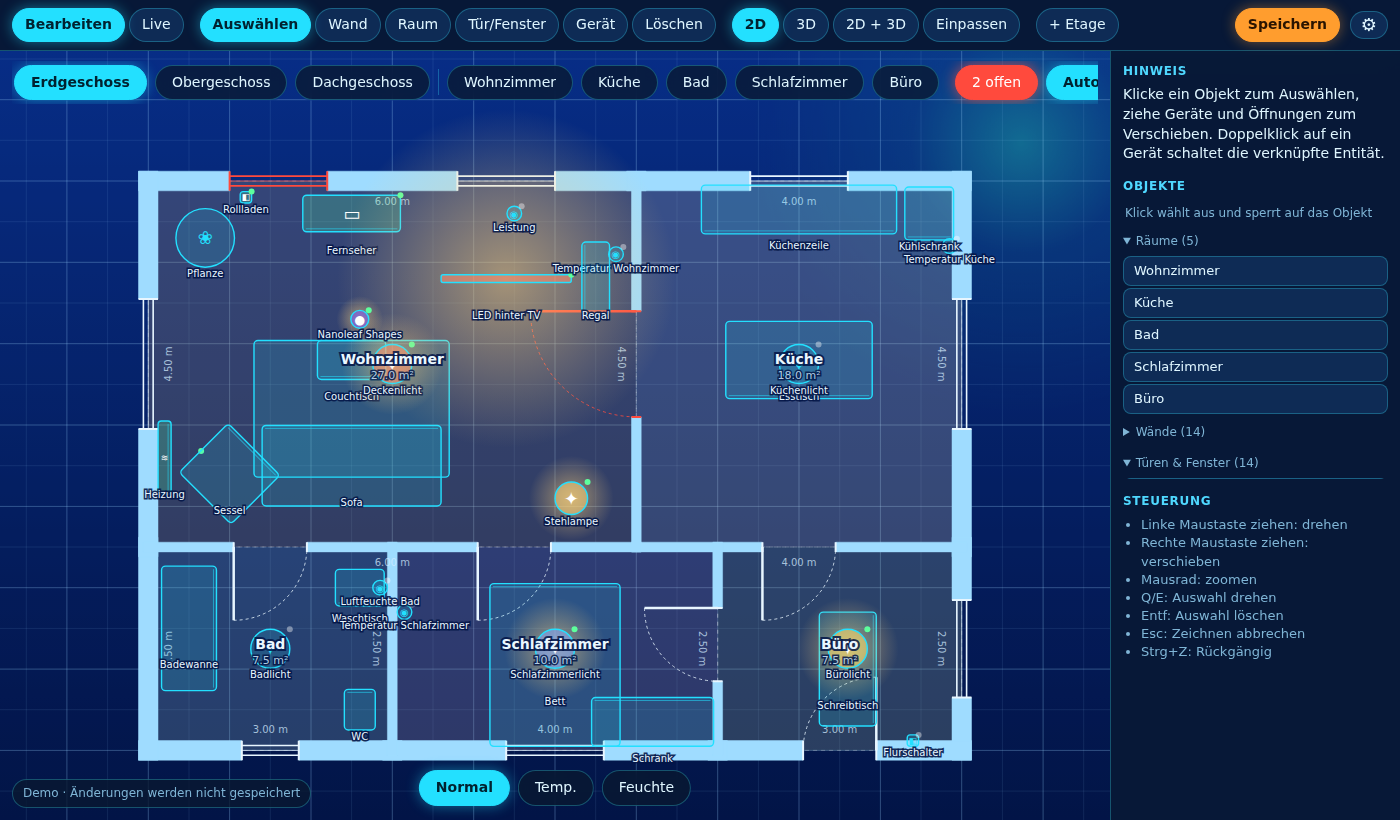
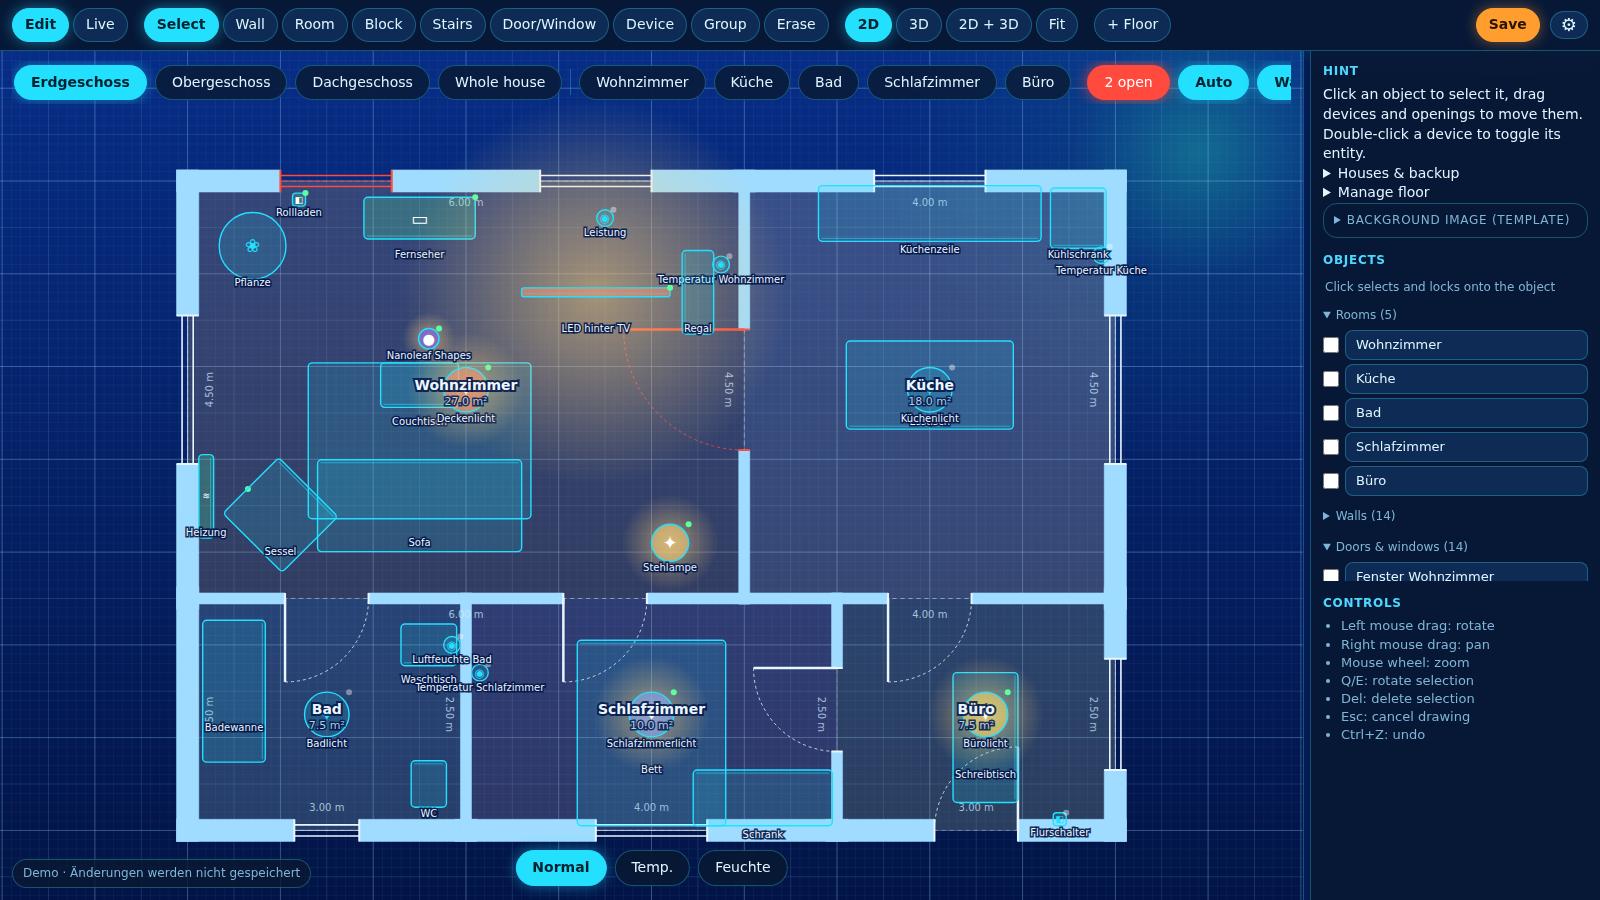
1.8.1: new README with feature overview and screenshots, architecture notes, house selector fix
Claude-Session: https://claude.ai/code/session_01Co8i9MW1FxCgsyBxKaj1v4

diff --git a/demo/demo-data.js b/demo/demo-data.js
@@ -134,7 +134,7 @@ const entities = {
 };
 
 let settings = {
-  language: 'de', theme: 'holo', units: 'metric', grid: 0.25, wallHeight: 2.6, wallThickness: 0.2,
+  language: 'en', theme: 'holo', units: 'metric', grid: 0.25, wallHeight: 2.6, wallThickness: 0.2,
   shadows: true, autosaveSeconds: 1.5, lowWalls: false, showLabels: true, cutaway: true,
 };
 

diff --git a/floorplan3d/rootfs/app/static/style.css b/floorplan3d/rootfs/app/static/style.css
@@ -267,3 +267,4 @@ body.kiosk #houseGroup { display: none; }
 #panelResizer:hover, #panelResizer.drag { background: var(--accent); opacity: .5; }
 body.live #panelResizer { display: none; }
 @media (max-width: 700px) { #panelResizer { display: none; } }
+#houseGroup[hidden] { display: none; }

diff --git a/README.md b/README.md
@@ -1,8 +1,8 @@
 <div align="center">
 
-# 3D Floorplan for Home Assistant
+# 🏠 3D Floorplan for Home Assistant
 
-**Draw your home, see it in 3D and control it right where things are.**
+### Draw your home, see it in 3D and control it right where things are.
 
 [![CI](https://github.com/BuRnEd4AiM/HA-Floorplanner/actions/workflows/ci.yml/badge.svg)](https://github.com/BuRnEd4AiM/HA-Floorplanner/actions/workflows/ci.yml)
 [![Release](https://img.shields.io/github/v/release/BuRnEd4AiM/HA-Floorplanner?display_name=tag&sort=semver)](https://github.com/BuRnEd4AiM/HA-Floorplanner/releases)
@@ -10,47 +10,127 @@
 ![Home Assistant add-on](https://img.shields.io/badge/Home%20Assistant-add--on-41BDF5?logo=homeassistant&logoColor=white)
 ![Ingress](https://img.shields.io/badge/Ingress-yes-success)
 ![No build step](https://img.shields.io/badge/frontend-no%20build%20step-lightgrey)
+![Made with love](https://img.shields.io/badge/made%20with-%E2%9D%A4-e0245e)
 
 [![Add repository to my Home Assistant](https://my.home-assistant.io/badges/supervisor_add_addon_repository.svg)](https://my.home-assistant.io/redirect/supervisor_add_addon_repository/?repository_url=https%3A%2F%2Fgithub.com%2FBuRnEd4AiM%2FHA-Floorplanner)
 
-![3D and 2D split view](docs/img/split.png)
+<img src="docs/img/3d.png" alt="3D hologram view of an apartment with live lights, sensors and open windows" width="900">
+
+*Your own floor plan as a glowing 3D hologram, live with your real lights, sensors, windows and scenes.*
+
+**[Features](#-features) · [Installation](#-installation) · [Quick start](#-quick-start) · [Tablets](#-wall-tablets--kiosk) · [Documentation](#-documentation) · [Roadmap](ROADMAP.md)**
 
 </div>
 
-> **Status: early development (0.x).** It works and is used daily, but layouts are stored in a versioned JSON format that may be migrated between releases. See the [roadmap](ROADMAP.md) and the [milestones](https://github.com/BuRnEd4AiM/HA-Floorplanner/milestones).
+---
 
-## Highlights
+## ✨ Why this add-on?
+
+Most floor plan cards make you place icons on a picture. **3D Floorplan** lets you *build* your home: walls, rooms, doors, windows, stairs and furniture, then see it as a real 3D model in which every device is bound to a Home Assistant entity. Tap a lamp where it stands, switch a whole room, start a scene, see which window is open, all in one place, on your phone, your desktop or a wall tablet.
+
+It is made with a lot of love for my own smart home, and it is used every day. I hope it makes yours a little nicer, too. 💙
+
+## 🎯 Features
+
+### 🏗 Build your home
 
 | | |
 | --- | --- |
-| **Draw it yourself** | Walls, rooms and several floors on a snapping grid, in a 2D blueprint editor that is linked live with the 3D view (split view). Load a scan of your floor plan as a template and trace it. Placeholder blocks for floors you do not draw, stairs and stairwells with floor openings, basements, roofs, garden objects and a whole-house view |
-| **Real 3D** | Orbit, pan, zoom; doors and windows cut real openings; low-wall mode; translucent neon hologram design |
-| **Home Assistant native** | Every device is bound to an entity; lights glow in their real colour, sensors show values, HA areas group your entities |
-| **Whole room at once** | Switch all lights of a room, set colour for all of them and start the room's scenes in one place |
-| **Effects and colour** | Colour, brightness and warm/cold white per light; effect lists of Nanoleaf, WLED, Hue and others |
-| **Heat and humidity views** | Temperature and humidity colour the rooms |
-| **Permissions** | Only administrators edit; everyone else gets a read-only live view, enforced in the backend |
-| **Tablets** | One Home Assistant user per wall tablet: starts in its room, sees only the views you allow |
-| **Your own models** | 29 built-in objects (lights, furniture, light ball, LED strip …) plus your own `.glb` files |
-| **Offline and private** | three.js is bundled, no CDN, no cloud, opens through Ingress in the sidebar |
+| **Walls, rooms and floors** | Draw on a snapping grid in a 2D blueprint editor that is linked live with the 3D view (split view). Several floors, basement and roof, placeholder blocks for floors you do not draw |
+| **Trace your plan** | Load a scan or photo of your floor plan as a template, calibrate its scale and trace over it |
+| **Stairs** | Straight, L-shaped, U-shaped and spiral stairs with real floor openings |
+| **Doors and windows** | 12 presets: front door, glass door, double door, sliding door, single / double / triple window, balcony door, fixed glazing ... they cut real openings into the wall and open when the contact sensor reports *open* |
+| **Garden and surroundings** | Trees, bushes, lawn, terrace, pool, paths, fences and cars around the house, in natural colours |
+| **Whole-house view** | See all floors, basement and roof stacked as one building |
+| **Several houses** | One floor plan per house (yours, your parents', a holiday home ...), a house selector and `?house=` links for kiosks |
 
-## Screenshots
+<table>
+<tr>
+<td width="50%"><img src="docs/img/split.png" alt="2D and 3D split view"><br><sub><b>2D + 3D split view</b>: draw in the blueprint, see it in 3D instantly</sub></td>
+<td width="50%"><img src="docs/img/house.png" alt="Whole-house view"><br><sub><b>Whole-house view</b>: all floors stacked</sub></td>
+</tr>
+</table>
 
-| 3D view | 2D blueprint editor |
-| --- | --- |
-| ![3D](docs/img/3d.png) | ![2D](docs/img/2d.png) |
+### 🪑 Furnish it
 
-## Installation
+- **Furniture library with previews**, search and categories (Living, Kitchen, Bath, Bedroom, Office, Lighting, Tech, Outdoor, Decor). The search understands everyday names ("Fernseher", "Couch" ...)
+- **75+ built-in pieces**: sofas, beds, kitchens, bathroom, lamps, TVs (also wall-mounted), radiators, cameras, robot vacuum and more
+- **Your own 3D models**: upload any `.glb` file
+- **Pictures on walls**: upload a PNG / JPG / WebP and hang it, it clicks flat onto the nearest wall
+- **Exact sizes**: enter width, height and depth in metres, or drag the handles in the 2D plan. Tilt, roll and mirror pieces freely
+- **Groups**: combine pieces (e.g. a Nanoleaf logo) so they move, turn and mirror as one shape
+- **Wall stop**: furniture cannot be pushed through walls, it slides along them instead (can be switched off)
+- **Lock**: a checkbox before every item keeps it from being moved by accident
+
+<table>
+<tr>
+<td width="50%"><img src="docs/img/library.png" alt="Furniture library with previews"><br><sub><b>Furniture library</b> with previews, search and categories</sub></td>
+<td width="50%"><img src="docs/img/2d.png" alt="2D blueprint editor"><br><sub><b>2D blueprint editor</b> with snapping, dimensions and live state colours</sub></td>
+</tr>
+</table>
+
+### 💡 Control it
+
+- **Every device is a Home Assistant entity**: tap a lamp to switch it, dim it, pick a colour or warm / cool white
+- **Whole room at once**: all lights on / off, brightness and colour for the entire room, plus the room's scenes, in one panel
+- **Scenes where the light is**: the popup of a light lists every scene that contains it (e.g. *Gaming*)
+- **Effects**: effect lists of Nanoleaf, WLED, Hue and others; **Nanoleaf panel shapes** (triangle, hexagon, square, bar) for building your layout
+- **Realistic light**: lights glow in their real colour, with type-dependent light pools (a strip does not light the room like a ceiling lamp), dimmable
+- **Open windows and doors**: windows tilt open in 3D, **each pane of a double or triple window can have its own sensor**, an *n open* pill shows the overall state
+- **Heat and humidity views**: rooms are coloured by temperature or humidity
+- **Home Assistant areas**: entities are grouped by your areas and assigned automatically
+
+<table>
+<tr>
+<td width="50%"><img src="docs/img/room.png" alt="Room panel with whole-room control and scenes"><br><sub><b>Whole-room control</b>: lights, colour, brightness and scenes</sub></td>
+<td width="50%"><img src="docs/img/light.png" alt="Light popup with colour, brightness and scenes"><br><sub><b>Light popup</b>: tap a lamp right where it stands</sub></td>
+</tr>
+</table>
+
+### 🔒 Safe, private and dependable
+
+- **Permissions**: only chosen users edit, everyone else gets a read-only live view, enforced in the backend
+- **Offline and private**: three.js is bundled, no CDN, no cloud, no account; it opens through Ingress in the Home Assistant sidebar
+- **Backup and restore**: one file with all houses, settings, pictures and models. A safety copy is made before every restore
+- **Undo**: `Ctrl+Z` for everything you draw
+- **Your data stays yours**: layouts live in the add-on's `/data` folder and survive updates
+
+### 📱 Wall tablets / kiosk
+
+- One Home Assistant user per tablet: it starts in **its own room** and sees only the views you allow
+- **Low-power mode** for Fire tablets and other weak devices (automatic in kiosk mode): lower resolution, throttled animation, no shadows
+- Open a specific house with `?house=Parents`
+
+### 🎨 Look
+
+Hologram, dark and light theme, metric or imperial units, German and English UI.
+
+## 📦 Installation
 
 1. In Home Assistant open **Settings → Apps → App store → ⋮ → Repositories**.
 2. Add `https://github.com/BuRnEd4AiM/HA-Floorplanner` (or press the button at the top).
 3. Reload the store, open **3D Floorplan**, **Install**, **Start** and enable **Show in sidebar**.
 
-Requires Home Assistant OS or Supervised (anything with the Add-on / App store). Details, permissions and tablet setup are in the [documentation](floorplan3d/DOCS.md).
+Requires Home Assistant OS or Supervised (anything with the Add-on / App store). Details on permissions and tablet setup are in the [documentation](floorplan3d/DOCS.md).
 
-## Try it without Home Assistant
+## 🚀 Quick start
 
-The demo is a single HTML file with an example apartment and simulated lights and sensors:
+| Action | How |
+| --- | --- |
+| Draw walls / rooms | Tool **Wall** `W` / **Room** `R`: click point by point, double-click or `Esc` finishes |
+| Add doors and windows | Tool **Door/Window** `O`, pick a preset, click a wall |
+| Place furniture | Tool **Device** `D`, pick a piece from the library, click the floor |
+| Link an entity | Select a device, search the entity in the side panel |
+| Resize | Drag the two square handles in the 2D plan, or type the size in metres |
+| Move / rotate | Drag it, `Q` / `E` rotate in 15° steps |
+| Lock an item | Tick the box before its name in the object list |
+| Live mode | Tap a device to control it, tap a room for the whole room |
+| Undo | `Ctrl+Z` |
+| Backup | *Houses & backup* in the side panel |
+
+## 🧪 Try it without Home Assistant
+
+The demo is a single HTML file with an example house and simulated lights and sensors:
 
 ```bash
 cd demo && npm install && npm run build      # → demo/dist/floorplan3d-demo.html
@@ -58,24 +138,13 @@ cd demo && npm install && npm run build      # → demo/dist/floorplan3d-demo.ht
 
 Open the file by double-click. Changes are not saved in the demo.
 
-## Quick start
+## 📚 Documentation
 
-| Action | How |
-| --- | --- |
-| Tools | Select `V`, Wall `W`, Room `R`, Door/Window `O`, Device `D`, Erase |
-| Draw walls / rooms | Click point by point, double-click or `Esc` finishes |
-| Move / rotate | Drag it; `Q` / `E` rotate in 15° steps |
-| Link an entity | Select a device → search the entity in the properties panel |
-| Live mode | Tap a device to control it; tap a room for the whole room |
-| Undo | `Ctrl+Z` |
-
-## Documentation
-
-- [User guide](floorplan3d/DOCS.md) – permissions, tablets and views, areas, whole-room control, Nanoleaf, 2D editor
-- [Architecture](docs/ARCHITECTURE.md) – how the add-on is built
+- [User guide](floorplan3d/DOCS.md): permissions, tablets and views, areas, whole-room control, Nanoleaf, 2D editor, houses, backup
+- [Architecture](docs/ARCHITECTURE.md): how the add-on is built
 - [Changelog](CHANGELOG.md) · [Roadmap](ROADMAP.md) · [Security policy](SECURITY.md)
 
-## Development
+## 🛠 Development
 
 ```bash
 pip install -r requirements-dev.txt
@@ -83,12 +152,14 @@ pytest -q                                                   # backend tests
 DATA_DIR=./data python floorplan3d/rootfs/app/server.py     # http://localhost:8099 (standalone mode)
 ```
 
-The browser end-to-end tests are described in [tests/e2e/README.md](tests/e2e/README.md). New to Git? Start with the [beginner guide (German)](docs/GIT-EINSTIEG.md).
+The browser end-to-end tests are described in [tests/e2e/README.md](tests/e2e/README.md). New to Git? Start with the [beginner guide (German)](docs/GIT-EINSTIEG.md). Every push to `main` that raises the version in `floorplan3d/config.yaml` creates a GitHub release automatically.
 
-## Contributing
+## 🤝 Contributing
 
-Bug reports, ideas and pull requests are welcome, see [CONTRIBUTING.md](CONTRIBUTING.md) and the [issue templates](https://github.com/BuRnEd4AiM/HA-Floorplanner/issues/new/choose). Please follow the [Code of Conduct](CODE_OF_CONDUCT.md).
+Bug reports, ideas and pull requests are welcome, see [CONTRIBUTING.md](CONTRIBUTING.md) and the [issue templates](https://github.com/BuRnEd4AiM/HA-Floorplanner/issues/new/choose). Please follow the [Code of Conduct](CODE_OF_CONDUCT.md). If you like the project, a ⭐ on GitHub makes my day.
 
-## License
+## 📄 License
 
 [MIT](LICENSE) © 2026 BuRnEd4AiM. Bundles [three.js](https://threejs.org) (MIT).
+
+<div align="center"><sub>Made with ❤ for the Home Assistant community</sub></div>

diff --git a/docs/ARCHITECTURE.md b/docs/ARCHITECTURE.md
@@ -6,7 +6,10 @@ Browser (Home Assistant sidebar, Ingress)
  ▼
 server.py  (aiohttp, port 8099)
  ├─ /                 static frontend
- ├─ /api/layout       floors, walls, rooms, devices      → /data/layout.json
+ ├─ /api/layout       floors, walls, rooms, devices      → /data/layout.json (first house), /data/layouts/<id>.json
+ ├─ /api/houses       house index (several floor plans)  → /data/houses.json
+ ├─ /api/backup       export / import everything         → /data/backups/ (safety copies)
+ ├─ /api/backgrounds  floor plan templates, wall pictures → /data/backgrounds/
  ├─ /api/settings     look, units, users/rooms/views     → /data/settings.json
  ├─ /api/models       uploaded GLB models                → /data/models/
  ├─ /api/entities     entity list with state             ← Home Assistant REST API

diff --git a/CHANGELOG.md b/CHANGELOG.md
@@ -4,6 +4,12 @@ All notable changes are documented here. The format follows [Keep a Changelog](h
 
 ## [Unreleased]
 
+## [1.8.1] - 2026-09-30
+### Changed
+- Completely revised README with feature overview and new screenshots (3D, 2D, split view, whole house, library, room panel, light popup)
+### Fixed
+- The house selector in the header was visible even with a single house
+
 ## [1.8.0] - 2026-09-30
 ### Added
 - **Resizable side panel**: drag its left edge to make it wider (remembered per browser)
